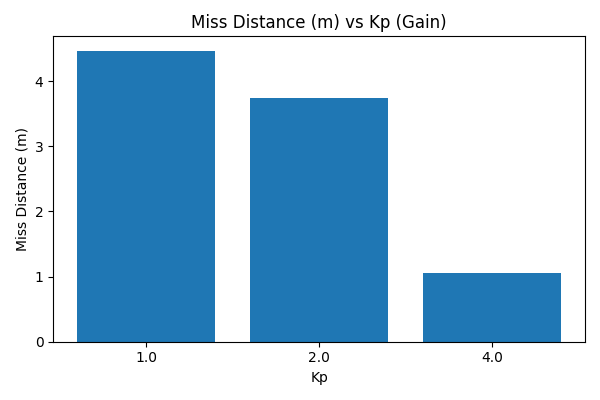
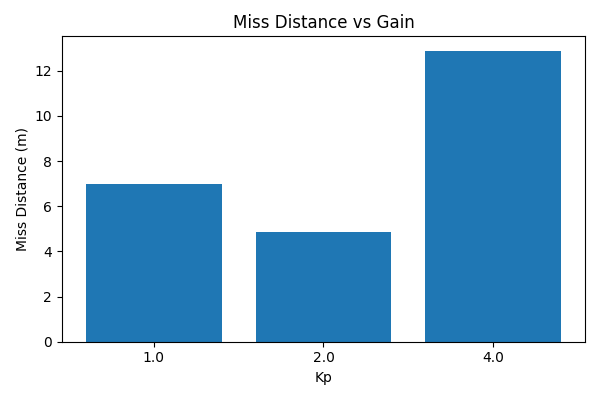
Add plots, metrics, and updated robustness script

diff --git a/src/tuning_robustness.py b/src/tuning_robustness.py
@@ -149,3 +149,174 @@ plot_bar("miss_distance", "Disturbance", "Disturbance", "Miss Distance (m)", "mi
 
 print("\nAll experiments complete. Plots saved to /doc and metrics to tuning_robustness_metrics.csv")
 
+import numpy as np
+import matplotlib.pyplot as plt
+import pandas as pd
+import time
+
+from position_controller import PositionController  # adjust import if your class is elsewhere
+
+# --- Settling time & Time-to-Intercept ---
+def compute_settling_time(distances, dt, tol=1.0, duration=1.0):
+    window = int(duration / dt)
+    for i in range(len(distances) - window):
+        if np.all(distances[i:i+window] < tol):
+            return i * dt
+    return None
+
+def compute_time_to_intercept(distances, dt, tol=1.0):
+    indices = np.where(distances < tol)[0]
+    return float(indices[0] * dt) if len(indices) > 0 else None
+
+# --- Simulated target (3D helix) ---
+def helical_target(t, radius=5, z_rate=0.2, speed=1.0):
+    x = radius * np.cos(speed * t)
+    y = radius * np.sin(speed * t)
+    z = z_rate * t
+    return np.array([x, y, z])
+
+# --- Simulation runner ---
+def run_sim(kp=2.0, kd=1.0, noise=0.0, max_acc=None, disturbance=False, N=400, dt=0.05):
+    pursuer_pos = np.array([-7.0, -7.0, 0.0])
+    pursuer_vel = np.zeros(3)
+    traj_pursuer = [pursuer_pos.copy()]
+    traj_target = []
+    controller = PositionController(kp, kd, max_acc if max_acc else 10.0)
+
+    for i in range(N):
+        t = i * dt
+        target = helical_target(t)
+        traj_target.append(target.copy())
+
+        # Add sensor noise
+        pos_noise = np.random.normal(0, noise, size=3)
+        current_pos = pursuer_pos + pos_noise
+
+        # Control (desired acc)
+        acc = controller.compute_acceleration(current_pos, pursuer_vel, target)
+
+        # Actuator saturation (redundant if max_acc in controller)
+        if max_acc is not None:
+            acc = np.clip(acc, -max_acc, max_acc)
+
+        # Optional: Random disturbance (spikes)
+        if disturbance and np.random.rand() < 0.05:
+            acc += np.random.uniform(-1, 1, size=3)
+
+        # Physics update
+        pursuer_vel += acc * dt
+        pursuer_pos += pursuer_vel * dt
+        traj_pursuer.append(pursuer_pos.copy())
+
+    traj_pursuer = np.array(traj_pursuer)
+    traj_target = np.array(traj_target)
+    min_len = min(len(traj_pursuer), len(traj_target))
+    distances = np.linalg.norm(traj_pursuer[:min_len] - traj_target[:min_len], axis=1)
+    return traj_pursuer, traj_target, distances
+
+# --- Experiments ---
+dt = 0.05
+N = 400
+
+all_metrics = []
+
+# Gain sweep
+for kp in [1.0, 2.0, 4.0]:
+    start = time.time()
+    _, _, distances = run_sim(kp=kp, kd=1.0, N=N, dt=dt)
+    cpu = time.time() - start
+    settling_time = compute_settling_time(distances, dt)
+    time_to_intercept = compute_time_to_intercept(distances, dt)
+    metrics = {
+        "type": "Gain",
+        "Kp": kp,
+        "Kd": 1.0,
+        "miss_distance": float(distances[-1]),
+        "settling_time": settling_time,
+        "time_to_intercept": time_to_intercept,
+        "energy": float(np.sum(distances) * dt),
+        "cpu_time": cpu,
+    }
+    print(f"[Gain Sweep] Kp={kp}, Kd=1.0 -> {metrics}")
+    all_metrics.append(metrics)
+
+# Noise sweep
+for noise in [0.0, 0.1, 0.3]:
+    start = time.time()
+    _, _, distances = run_sim(kp=2.0, kd=1.0, noise=noise, N=N, dt=dt)
+    cpu = time.time() - start
+    settling_time = compute_settling_time(distances, dt)
+    time_to_intercept = compute_time_to_intercept(distances, dt)
+    metrics = {
+        "type": "Noise",
+        "noise": noise,
+        "miss_distance": float(distances[-1]),
+        "settling_time": settling_time,
+        "time_to_intercept": time_to_intercept,
+        "energy": float(np.sum(distances) * dt),
+        "cpu_time": cpu,
+    }
+    print(f"[Noise Sweep] σ={noise} -> {metrics}")
+    all_metrics.append(metrics)
+
+# Actuator limit sweep
+for max_acc in [1.0, 2.0, 3.0]:
+    start = time.time()
+    _, _, distances = run_sim(kp=2.0, kd=1.0, max_acc=max_acc, N=N, dt=dt)
+    cpu = time.time() - start
+    settling_time = compute_settling_time(distances, dt)
+    time_to_intercept = compute_time_to_intercept(distances, dt)
+    metrics = {
+        "type": "Actuator",
+        "max_acc": max_acc,
+        "miss_distance": float(distances[-1]),
+        "settling_time": settling_time,
+        "time_to_intercept": time_to_intercept,
+        "energy": float(np.sum(distances) * dt),
+        "cpu_time": cpu,
+    }
+    print(f"[Actuator Limit] max_acc={max_acc} -> {metrics}")
+    all_metrics.append(metrics)
+
+# Disturbance test
+for disturbance in [False, True]:
+    start = time.time()
+    _, _, distances = run_sim(kp=2.0, kd=1.0, disturbance=disturbance, N=N, dt=dt)
+    cpu = time.time() - start
+    settling_time = compute_settling_time(distances, dt)
+    time_to_intercept = compute_time_to_intercept(distances, dt)
+    metrics = {
+        "type": "Disturbance",
+        "disturbance": disturbance,
+        "miss_distance": float(distances[-1]),
+        "settling_time": settling_time,
+        "time_to_intercept": time_to_intercept,
+        "energy": float(np.sum(distances) * dt),
+        "cpu_time": cpu,
+    }
+    print(f"[Disturbance] {disturbance} -> {metrics}")
+    all_metrics.append(metrics)
+
+# Save results
+df = pd.DataFrame(all_metrics)
+df.to_csv("tuning_robustness_metrics.csv", index=False)
+
+# Quick bar plots for each group
+def plot_metric(group, xkey, ykey, title, xlabel, ylabel, filename):
+    subset = df[df['type'] == group]
+    plt.figure(figsize=(6, 4))
+    plt.bar(subset[xkey].astype(str), subset[ykey])
+    plt.title(title)
+    plt.xlabel(xlabel)
+    plt.ylabel(ylabel)
+    plt.tight_layout()
+    plt.savefig(f"doc/{filename}")
+    plt.close()
+
+plot_metric('Gain', 'Kp', 'miss_distance', 'Miss Distance vs Gain', 'Kp', 'Miss Distance (m)', 'miss_distance_vs_gain.png')
+plot_metric('Noise', 'noise', 'miss_distance', 'Miss Distance vs Noise', 'Noise σ', 'Miss Distance (m)', 'miss_distance_vs_noise.png')
+plot_metric('Actuator', 'max_acc', 'miss_distance', 'Miss Distance vs Actuator Limit', 'Max Acc (m/s²)', 'Miss Distance (m)', 'miss_distance_vs_maxacc.png')
+plot_metric('Disturbance', 'disturbance', 'miss_distance', 'Miss Distance vs Disturbance', 'Disturbance', 'Miss Distance (m)', 'miss_distance_vs_disturbance.png')
+
+print("\nAll experiments complete. Plots saved to /doc and metrics to tuning_robustness_metrics.csv")
+
